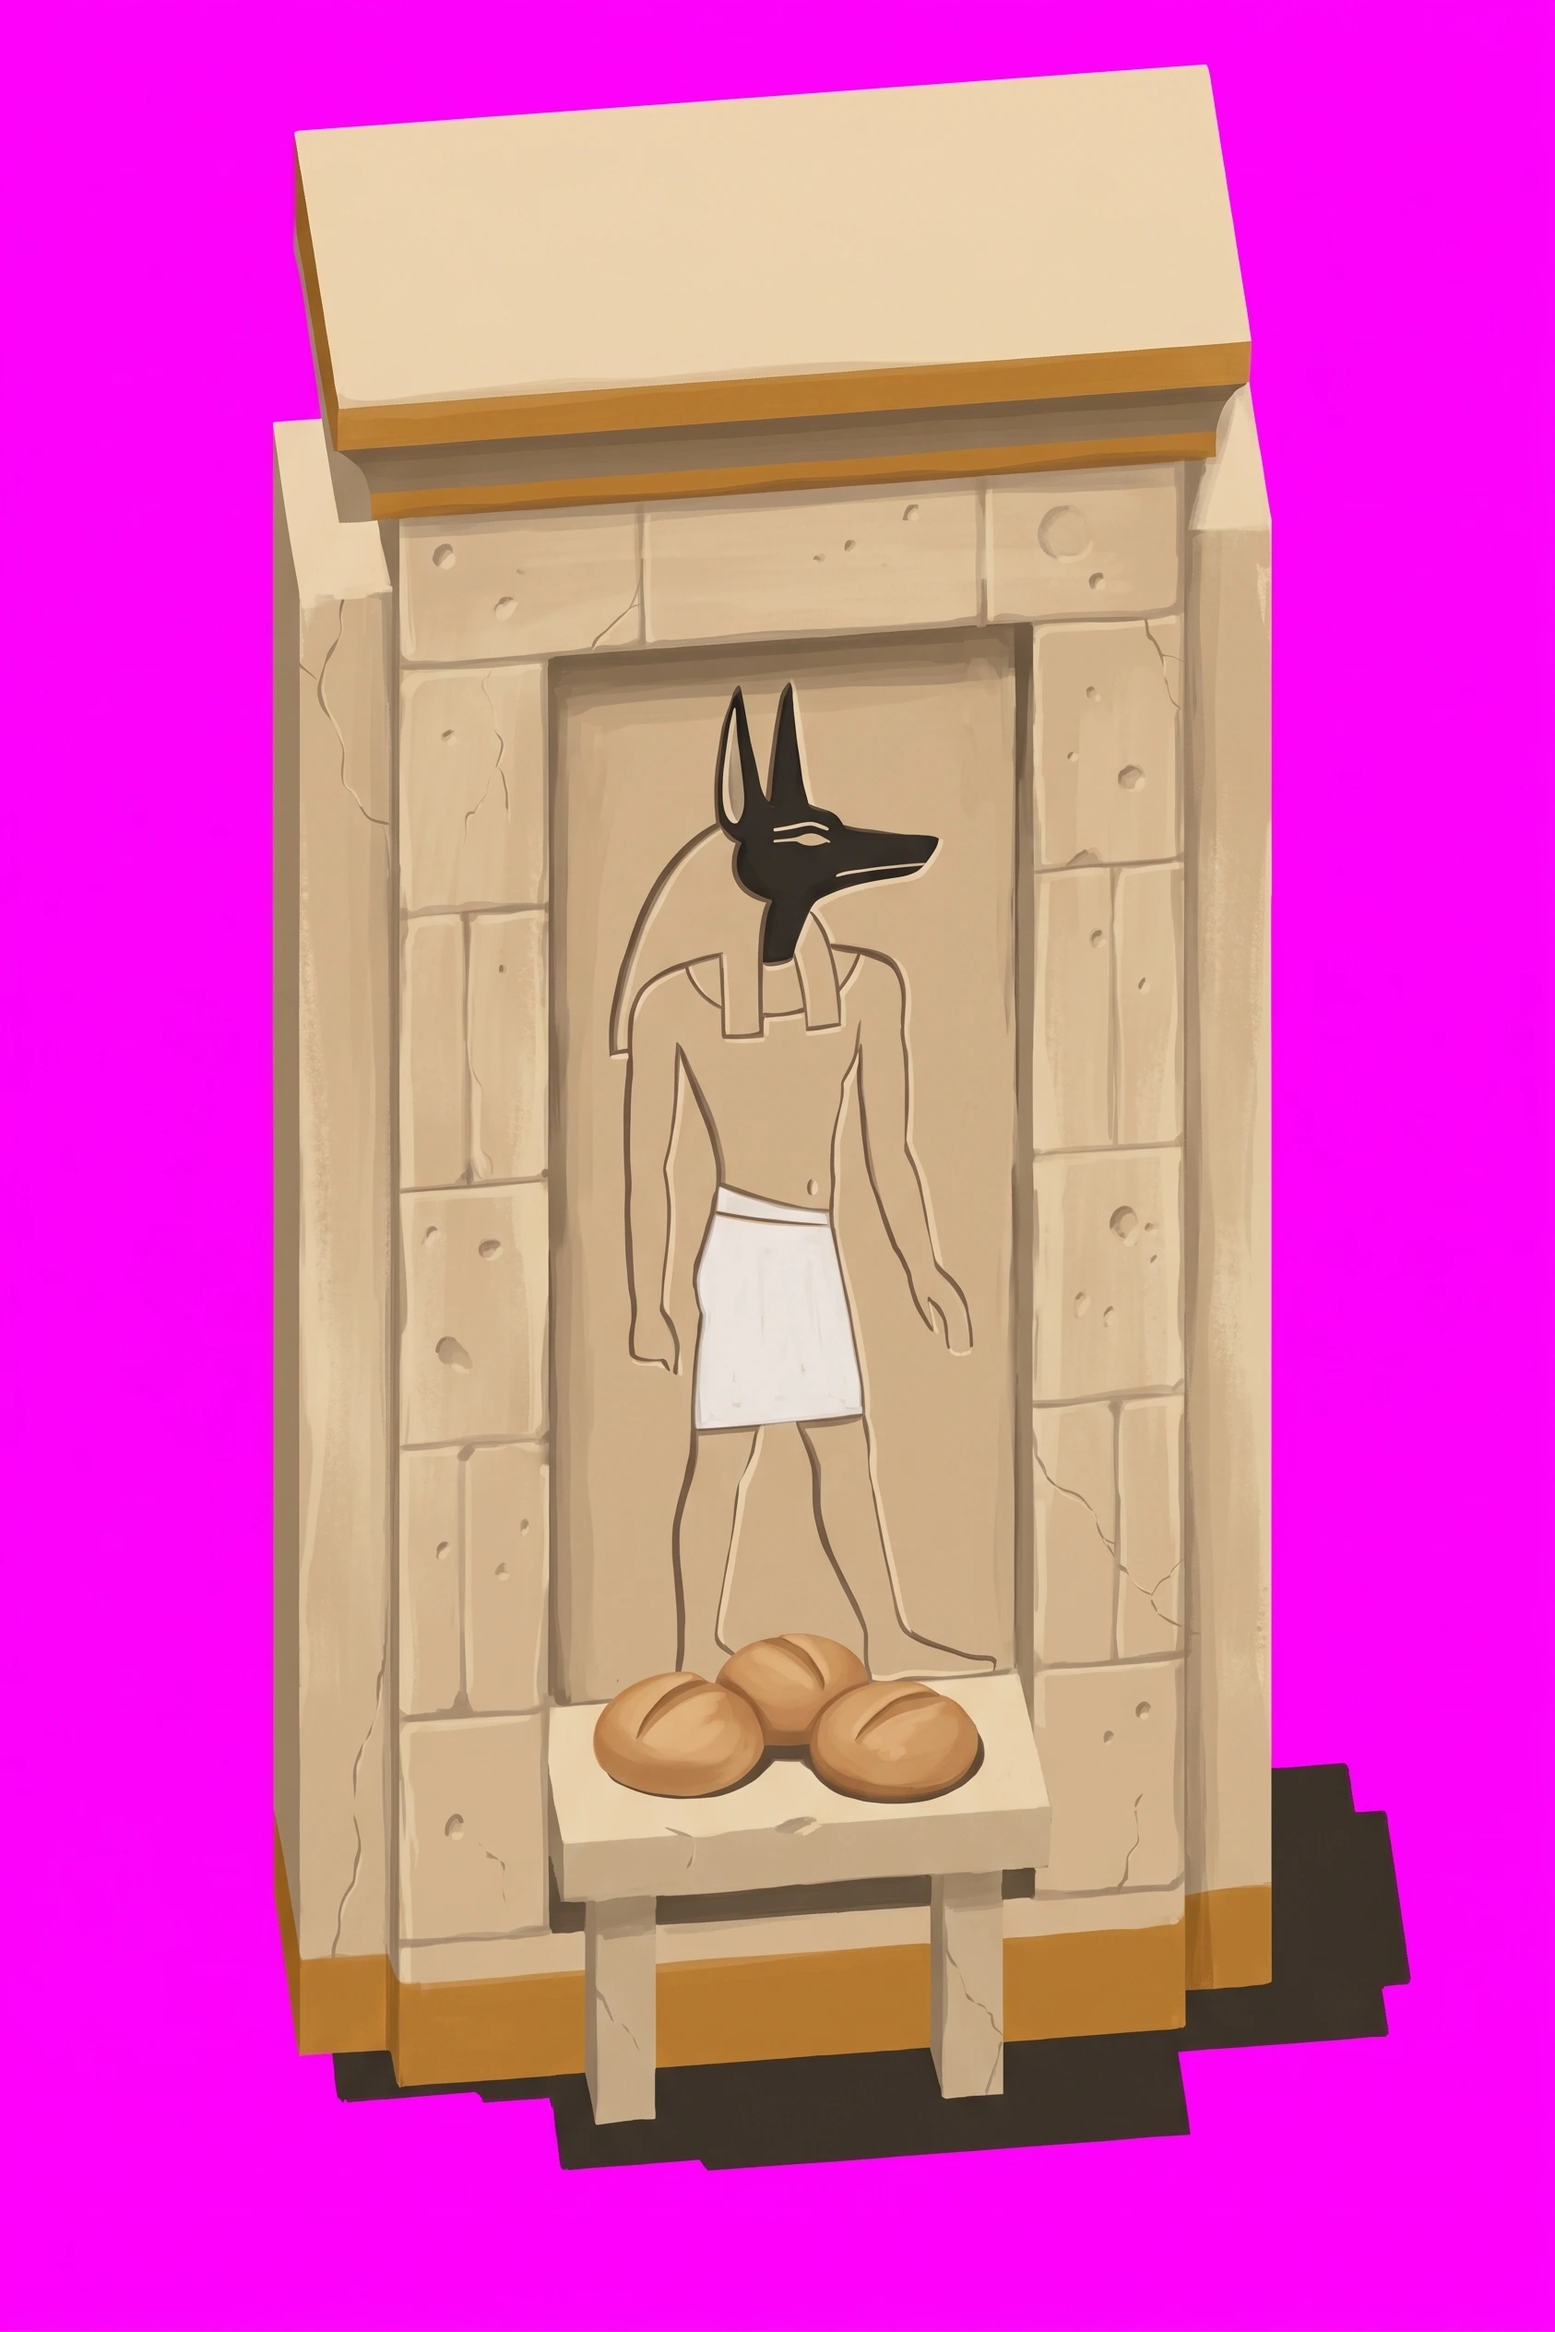
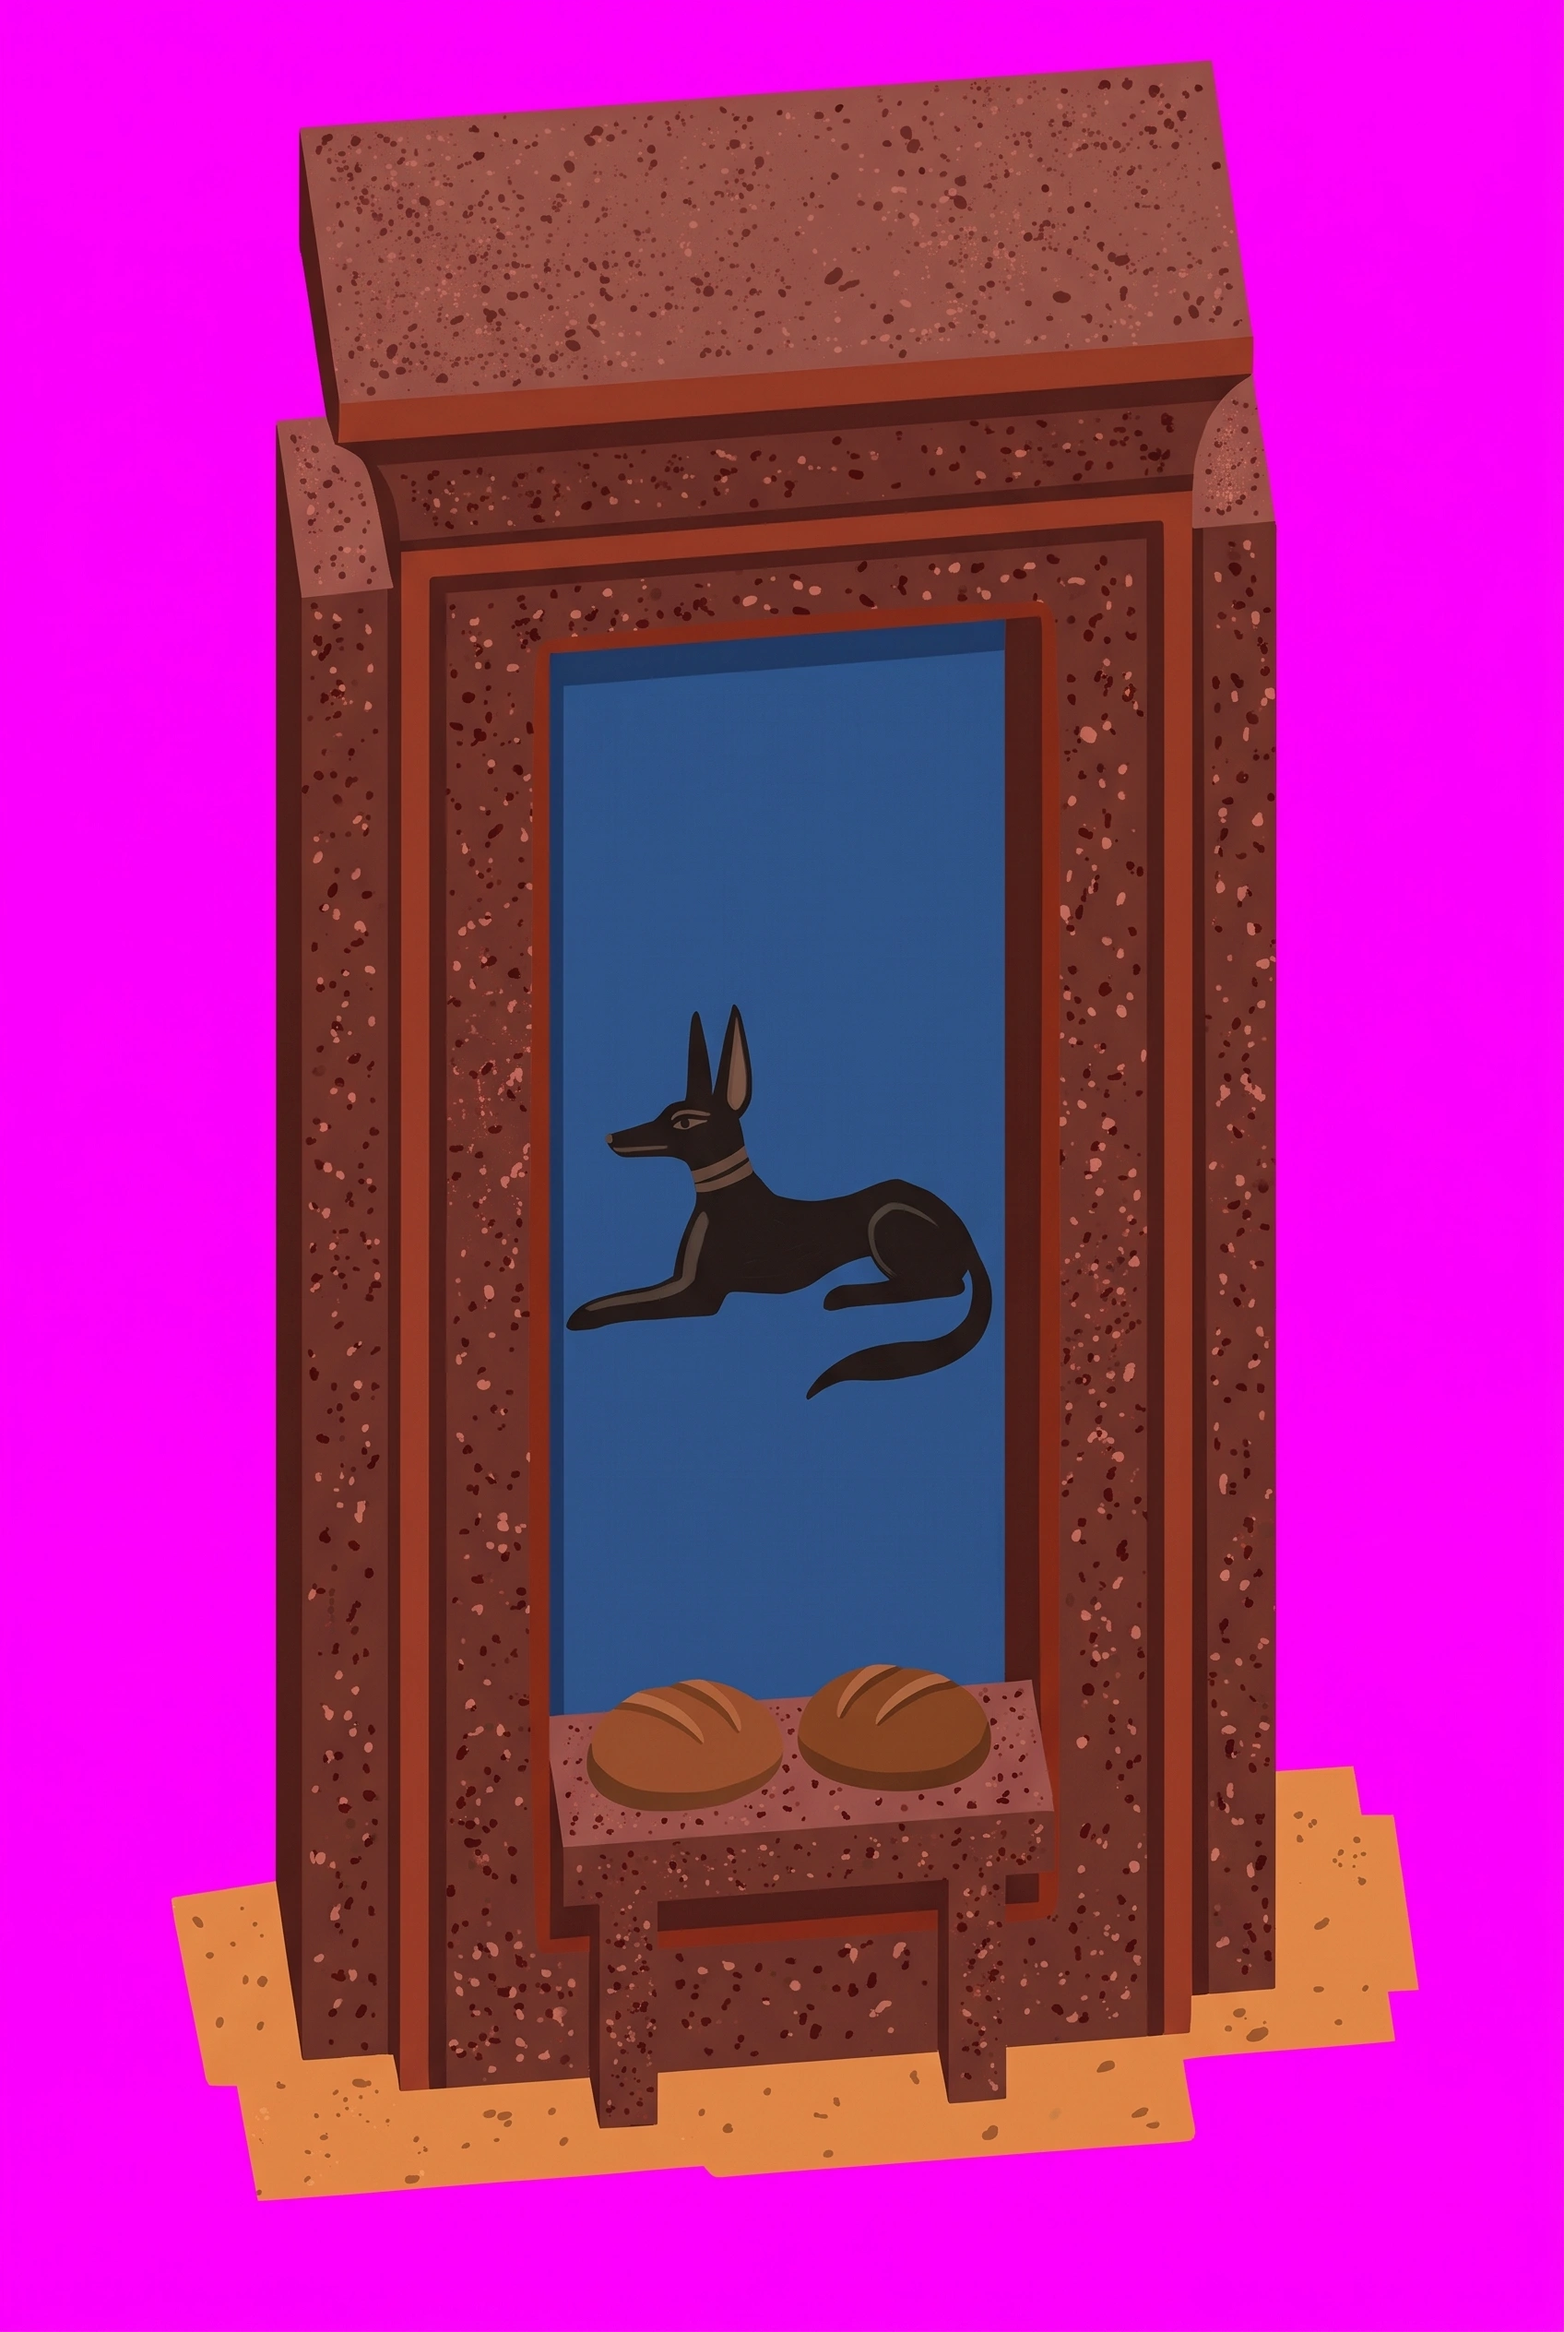
art: junior Anubis false door
Claude-Session: https://claude.ai/code/session_01F6g2diRzQCzQwEf9zsEEGH

diff --git a/docs/instructions/repaint-queue.md b/docs/instructions/repaint-queue.md
@@ -483,7 +483,7 @@ Even lighting left to right, no hotspot, no vignette.
 
 ---
 
-## Nobleman — nineteen
+## Nobleman — eighteen
 
 The nobleman's existing props, repainted for the rank's new light orange floor. Each is its own thing
 first: cedar is cedar, linen is linen, pottery is pottery, painted in red ochre, Egyptian blue and leaf
@@ -506,39 +506,6 @@ The last nine are the house's own kinds, new with its activities ([themed-rooms.
 § Junior): each has a primitive of its own in `renderProp.py` and a guarded block in `art/rebuild.sh`. The
 banquet table and the bed are two cells across, so their frame is landscape three by two; the harp and the
 potted tree stand a cell taller, so theirs is portrait two by five.
-
-### `junior/shrine-anubis` — a false door with Anubis on its panel
-
-**Re-roll:** the rank's palette moved (2026-11-03, `Topology/Palette moodboard`). Repainted against the new light orange floor, in its own material's colours; copper only as a trim.
-
-**Attach:**
-
-1. `~/tile-previews/shrine-anubis-junior.png` — the scaffold
-2. `~/tile-previews/junior-plain.png` — the material reference
-
-```
-A wall-less product shot of a single object, painted in flat matte gouache, no background, on pure magenta #FF00FF. Portrait, two units wide by three tall, exactly as the reference. Do not re-compose it into a square. Paint over the reference image itself.
-
-The object: a FALSE DOOR with an OFFERING TABLE before it, dedicated to ANUBIS. The tall slab with its
-recessed frames is the false door; the low slab in front is the table.
-
-The false door is painted to imitate RED GRANITE, as a nobleman's was: a deep red-brown #7a3e30 speckled
-with darker #5a2a20 and paler #a06050 flecks, its frames edged in red ochre #8a3a2a. The recessed panel
-carries ANUBIS painted lying down: a BLACK JACKAL #2a1f18, long muzzle, two tall pointed ears, on an
-Egyptian blue ground #2a5a9a. The table is the same painted granite with two brown loaves #9a5a30 on it.
-
-Keep every edge, every proportion and every silhouette exactly as in the reference image — do not move, resize, straighten, add, remove or restyle any part of it, and do not change the angle it stands at. Paint only material and wear.
-
-No highlights, no gloss, no rim light, no ground plane, no reflections. Matte throughout, evenly lit, crisp and clean. Nobleman's house: orange sandstone, painted plaster, cedar, linen, reed and pottery, each in its OWN colours so it reads at a glance as what it is. Copper is an accent only — a rim, a band, a hasp, gone verdigris green at the edges — never a tint over the whole object.
-```
-
-Then, once the return is in `~/Downloads`:
-
-```sh
-scaffold falseDoor --spin=6 --colour=#7a3e30 --floor=#e2a86f
-yarn import-tile art/masters/props/junior/shrine-anubis.webp --tier=junior --name=shrine-anubis --slot=prop \
-  --filter=smooth --mask="$OBJ" --seat="$SHADOW"
-```
 
 ### `junior/statue-anubis` — Anubis couchant, black, on a painted chest
 
